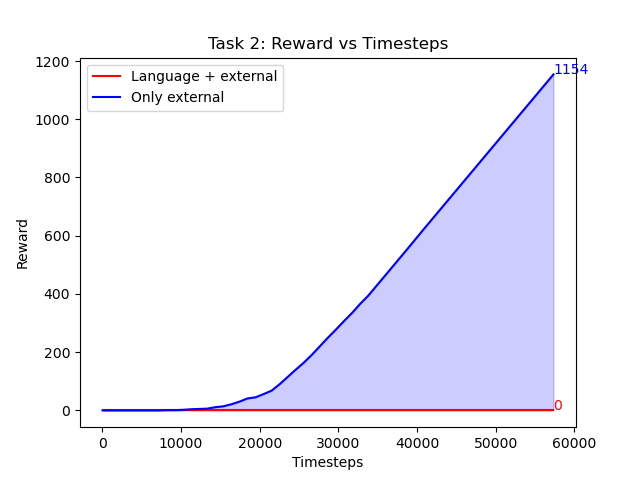
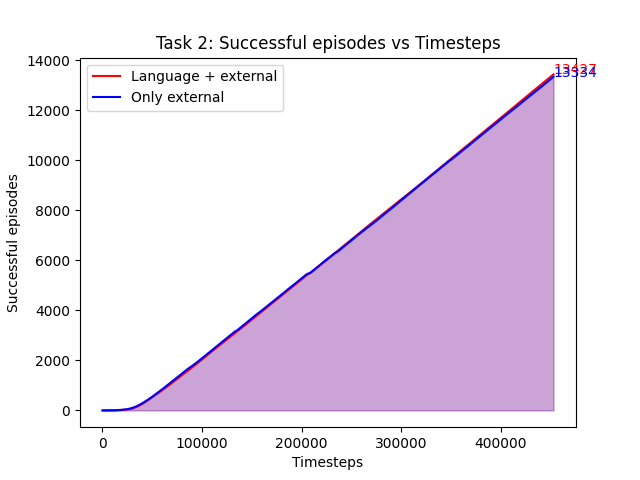
cleanup

diff --git a/language/plot.py b/language/plot.py
@@ -5,8 +5,8 @@ import numpy as np
 
 
 # load numpy array from npy file
-task = 4
-data_lang = np.load('data/final_results/task-{}-lang-true.npy'.format(task))
+task = 3
+data_lang = np.load('data/final_results/task-{}-lang-true-0.05.npy'.format(task))
 data_ext = np.load('data/final_results/task-{}-lang-false.npy'.format(task))
 
 # while the 0th dimension of data_ext doesn't match the 0th dimension of data_lang, remove the last element of data_ext
@@ -41,8 +41,8 @@ plt.plot(data_ext.T[0], data_ext.T[1], label='Only external', color='blue')
 #plt.annotate('lang', (data_lang.T[0][-1], data_lang.T[1][-1]), color='red')
 # draw labels on axis and set title
 ax.set_xlabel('Timesteps')
-ax.set_ylabel('Reward')
-ax.set_title('Task {}: Reward vs Timesteps'.format(task))
+ax.set_ylabel('Successful episodes')
+ax.set_title('Task {}: Successful episodes vs Timesteps'.format(task))
 # add subtitle
 ax.legend()
 # color areas under curve
@@ -53,12 +53,12 @@ ax.fill_between(data_ext.T[0], data_ext.T[1], color='blue', alpha=0.2)
 ax.annotate(data_lang[-1][-1], (data_lang.T[0][-1], data_lang.T[1][-1]), color='red')
 ax.annotate(data_ext[-1][-1], (data_ext.T[0][-1], data_ext.T[1][-1]), color='blue')
 
-#plt.show()
+plt.show()
 
 # save plot info 
-#fig.savefig('data/figures/task-{}.png'.format(task))
-#ax.plot(np.array([1, 2, 3, 4]), np.array([1, 4, 10, 50]));  # Plot some data on the axes.
-#ax.plot([1, 2, 3, 4], [4, 3, 2, 1]);  # Plot some data on the axes.
+fig.savefig('data/figures/task-{}.png'.format(task))
+# ax.plot(np.array([1, 2, 3, 4]), np.array([1, 4, 10, 50]));  # Plot some data on the axes.
+# ax.plot([1, 2, 3, 4], [4, 3, 2, 1]);  # Plot some data on the axes.
 
 # # display the plot
 # plt.show()

diff --git a/language/multimodal_data.py b/language/multimodal_data.py
@@ -96,6 +96,8 @@ fully_random_traj = [] # sent + fully random trajectory
 random_traj_noise_30 = [] # 1/3 noise + incorrect sent
 random_traj_noise_50 = [] # 1/2 noise + incorrect sent
 random_traj_noise_75 = [] # 3/4 noise + incorrect sent
+
+# these two weren't used because I ......... forgot to append them to the final list .......
 correct_freqs_incorrect_short_traj = [] # sent + random trajectory from data + random frequencies
 incorrect_freqs_correct_short_traj = [] # sent + random trajectory from data + random frequencies
 for i in full_data:
@@ -171,8 +173,8 @@ for i in range(10):
 
 
 # save new_full_data as pickle
-with open('data/new_augmented_data_5_labels.pkl', 'wb') as f:
-    pickle.dump(new_full_data, f)
+# with open('data/new_augmented_data_5_labels.pkl', 'wb') as f:
+#     pickle.dump(new_full_data, f)
 
 
 

diff --git a/language/tasks.py b/language/tasks.py
@@ -24,10 +24,7 @@ class Task(object):
     self.env.env.reset()
     self.env.env.restore_state(newState)
     obs, _, _, _ = self.env.step(0)
-    #print('reset at {}'.format(self.env.n_steps))
-    #print('task reset: ', self)
     return obs
-    # self.start = self.env.load_state('game_state_ckpts/{}.npy'.format(start))
     
 class DownLadderJumpRight(Task):
   def __init__(self, env):
